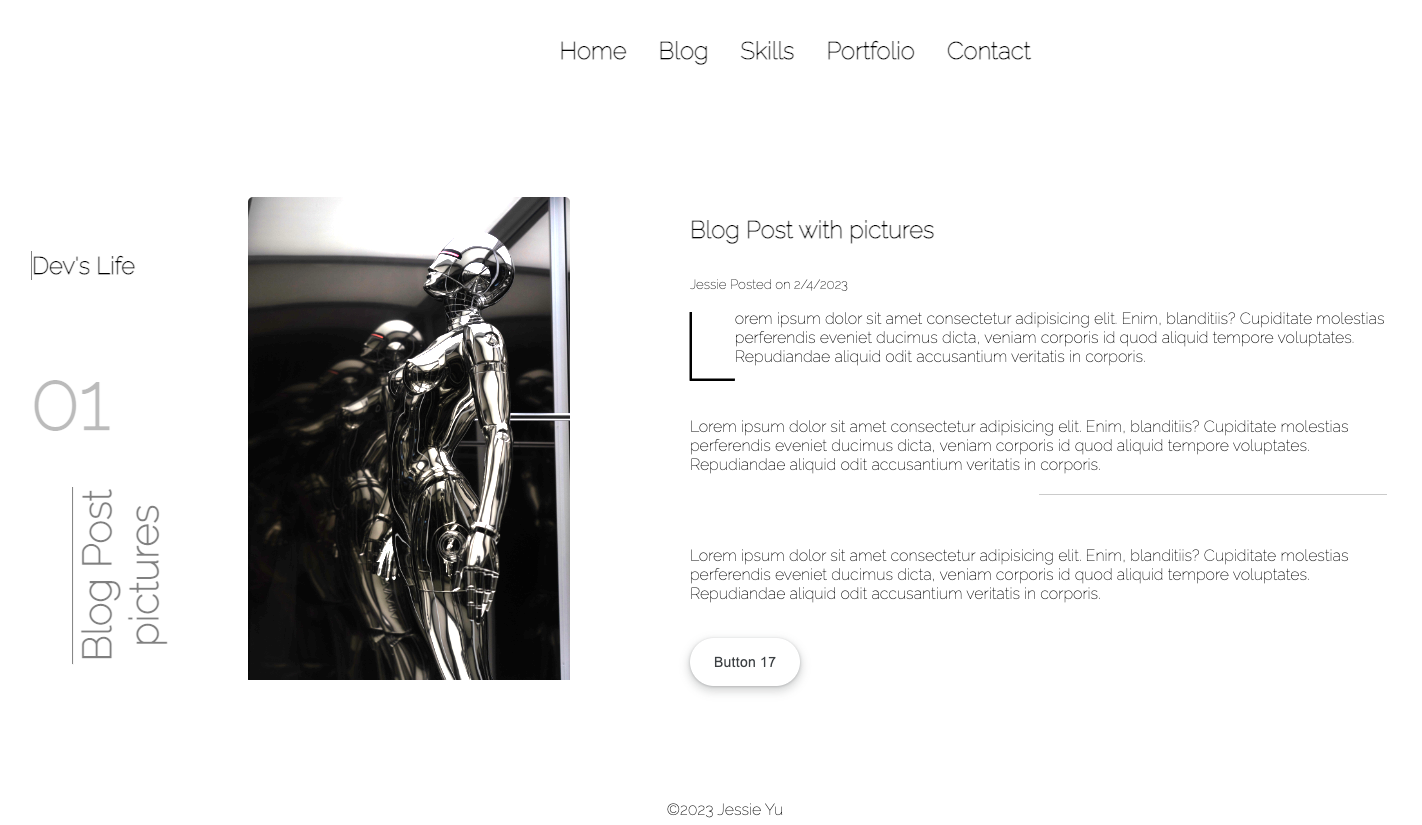
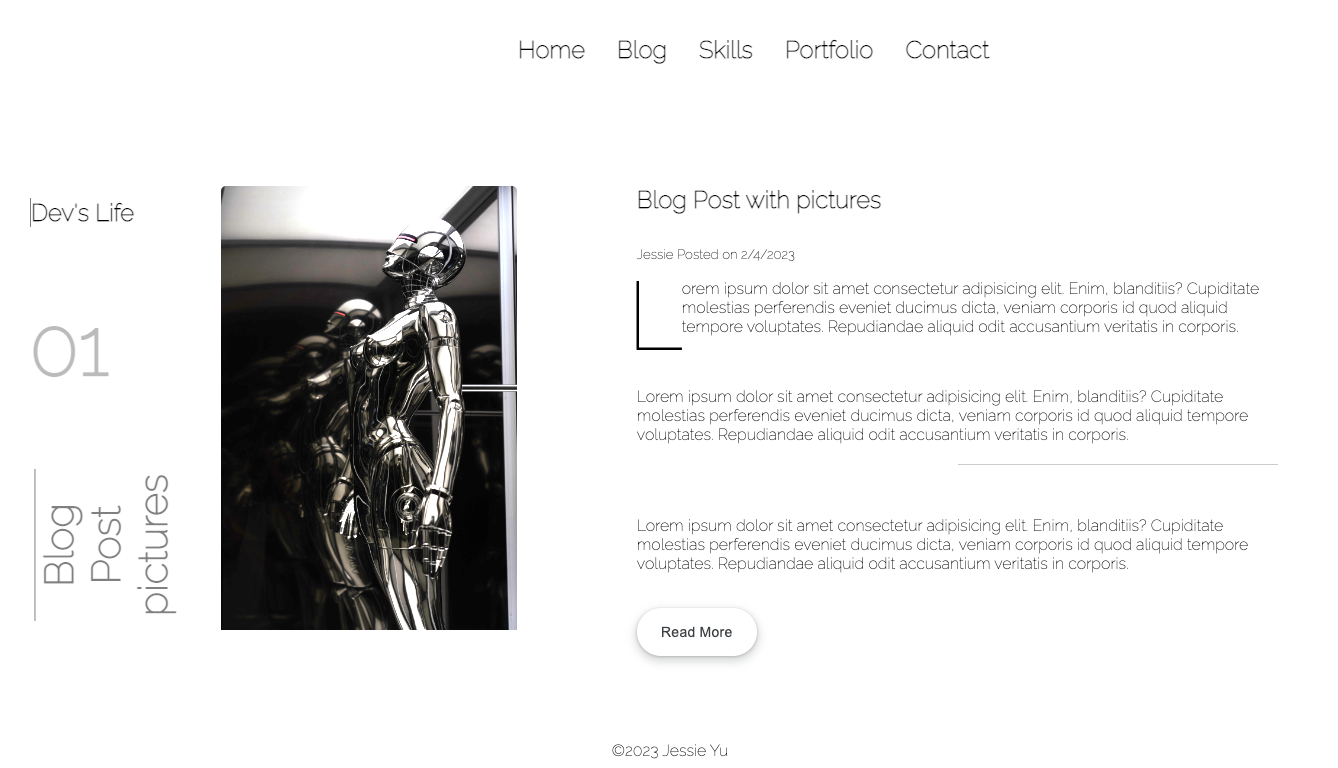
button rename

diff --git a/web-developer-protfolio/styles/blog_style.css b/web-developer-protfolio/styles/blog_style.css
@@ -1,0 +1,183 @@
+* {
+    font-family: 'Raleway', sans-serif;
+}
+
+.header {
+  width:50%;
+  display: flex;
+  justify-content: space-between;
+  margin:auto;
+  justify-content: center;
+}
+.header_navbar {
+  display: flex;
+  justify-content: space-between;
+  width: 50%;
+  margin: 1rem;
+}
+.header_navbar a {
+  text-decoration: none;
+  color: #000;
+  font-size: 1.5rem;
+  font-weight: bold;
+  margin: 1rem;
+}
+.header_navbar a:hover {
+  color: #bbb;
+}
+.header_navbar a:active {
+  color: #000;
+}
+
+.header_navbar a:focus {
+  color: #000
+}
+
+main {
+    font-family: 'Raleway', sans-serif;
+    display: flex;
+    width: 100vw;
+    height: 80vh;
+    justify-content: space-between;
+    align-items: center;
+}
+
+.title {
+    display: flex;
+    flex-direction: column;
+    width: 30%;
+    margin-left: 2rem;
+    text-align: center;
+    align-self: space-between;
+    align-items: baseline;
+}
+.title_topic {
+    border-left: 1px solid grey;
+
+}
+.title_number {
+    color: #bbb;
+    font-size: 5rem;
+    font-weight: bold;
+}
+.title_content {
+    font-size: 40px;
+    font-weight: bold;
+    transform: rotate(-90deg);
+    color: grey;
+    border-top: 1px solid grey;
+}
+.title_content:hover {
+    color: #000;
+}
+
+.profile {
+    width: 800px;
+    overflow: hidden;
+    white-space: nowrap;
+    border-radius: 5px;
+}
+
+.profile-img {
+    max-width: 100%;
+    filter: brightness(300%);
+
+}
+
+.blog {
+    margin: 5rem;
+}
+.blog_title {
+  position: relative;
+  padding-bottom: 10px;
+}
+
+.blog_article_p1::first-letter {
+  initial-letter: 4;
+}
+.blog_article_p2 {
+  padding-bottom:  20px;
+  border-bottom: 1px solid;
+  border-image: linear-gradient(to left, #ccc 50%, transparent 50%) 100% 1;
+}
+footer{
+    text-align: center;
+}
+
+
+
+
+
+
+
+/* CSS
+/https://getcssscan.com/css-buttons-examples
+ */
+.button-17 {
+  align-items: center;
+  appearance: none;
+  background-color: #fff;
+  border-radius: 24px;
+  border-style: none;
+  box-shadow: rgba(0, 0, 0, .2) 0 3px 5px -1px,rgba(0, 0, 0, .14) 0 6px 10px 0,rgba(0, 0, 0, .12) 0 1px 18px 0;
+  box-sizing: border-box;
+  color: #3c4043;
+  cursor: pointer;
+  display: inline-flex;
+  fill: currentcolor;
+  font-family: "Google Sans",Roboto,Arial,sans-serif;
+  font-size: 14px;
+  font-weight: 500;
+  height: 48px;
+  justify-content: center;
+  letter-spacing: .25px;
+  line-height: normal;
+  max-width: 100%;
+  overflow: visible;
+  padding: 2px 24px;
+  position: relative;
+  text-align: center;
+  text-transform: none;
+  transition: box-shadow 280ms cubic-bezier(.4, 0, .2, 1),opacity 15ms linear 30ms,transform 270ms cubic-bezier(0, 0, .2, 1) 0ms;
+  user-select: none;
+  -webkit-user-select: none;
+  touch-action: manipulation;
+  width: auto;
+  will-change: transform,opacity;
+  z-index: 0;
+}
+
+.button-17:hover {
+  background: #F6F9FE;
+  color: #174ea6;
+}
+
+.button-17:active {
+  box-shadow: 0 4px 4px 0 rgb(60 64 67 / 30%), 0 8px 12px 6px rgb(60 64 67 / 15%);
+  outline: none;
+}
+
+.button-17:focus {
+  outline: none;
+  border: 2px solid #4285f4;
+}
+
+.button-17:not(:disabled) {
+  box-shadow: rgba(60, 64, 67, .3) 0 1px 3px 0, rgba(60, 64, 67, .15) 0 4px 8px 3px;
+}
+
+.button-17:not(:disabled):hover {
+  box-shadow: rgba(60, 64, 67, .3) 0 2px 3px 0, rgba(60, 64, 67, .15) 0 6px 10px 4px;
+}
+
+.button-17:not(:disabled):focus {
+  box-shadow: rgba(60, 64, 67, .3) 0 1px 3px 0, rgba(60, 64, 67, .15) 0 4px 8px 3px;
+}
+
+.button-17:not(:disabled):active {
+  box-shadow: rgba(60, 64, 67, .3) 0 4px 4px 0, rgba(60, 64, 67, .15) 0 8px 12px 6px;
+}
+
+.button-17:disabled {
+  box-shadow: rgba(60, 64, 67, .3) 0 1px 3px 0, rgba(60, 64, 67, .15) 0 4px 8px 3px;
+}

diff --git a/web-developer-protfolio/html/blog_with_photos.html b/web-developer-protfolio/html/blog_with_photos.html
@@ -57,7 +57,7 @@
                 <br>
             </article>
             <aside>
-                <button class="button-17" role="button">Button 17</button>
+                <button class="button-17" role="button">Read More</button>
             </aside>
         </section>
     </main>
